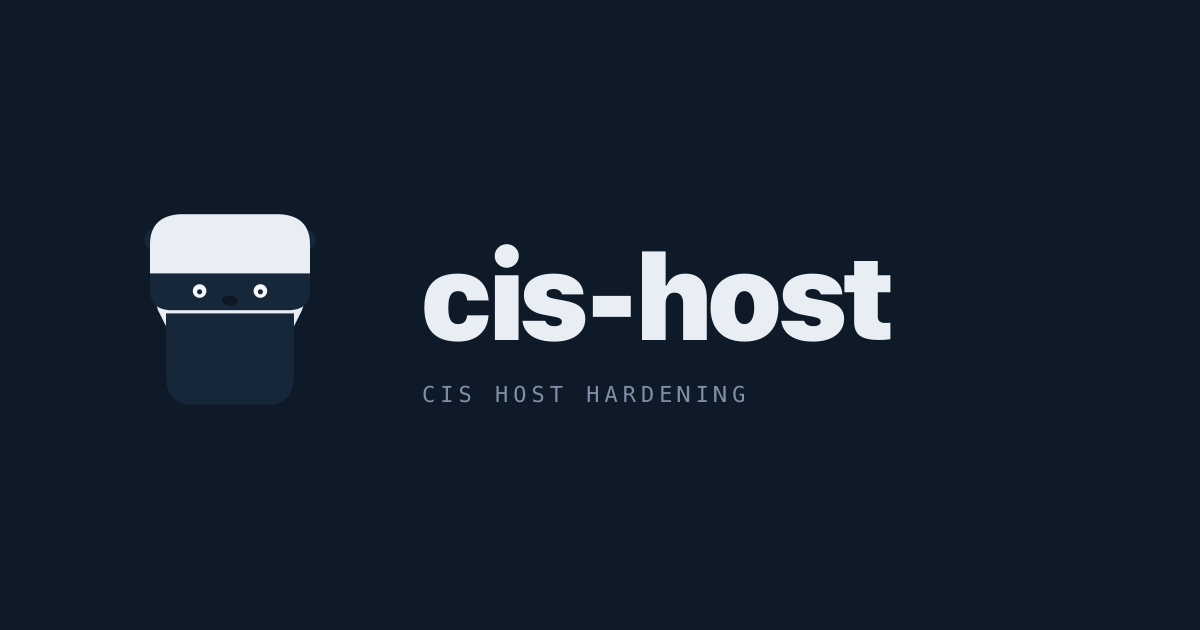
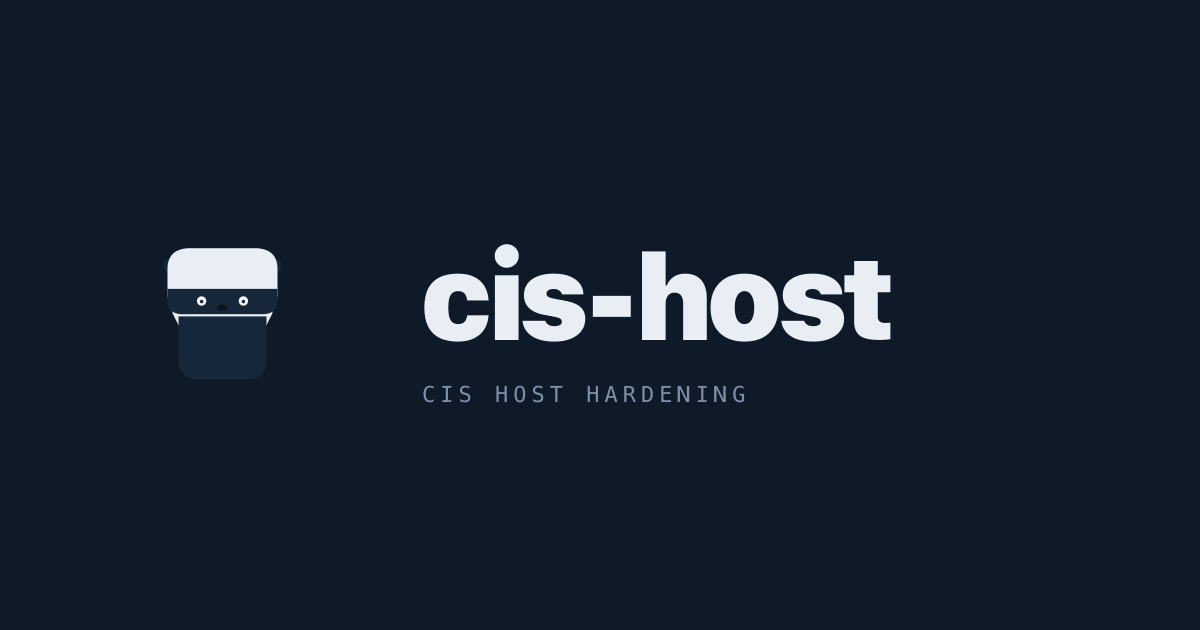
chore: shrink honey badger mark + og-image, smaller README display

Changed region(s): [[0.1233, 0.3317, 0.2775, 0.5127]]

diff --git a/README.md b/README.md
@@ -1,5 +1,5 @@
 <p align="center">
-  <img src="https://cdn.jsdelivr.net/gh/susunola/cis-host@main/docs/logo-full.png" alt="cis-host" width="600">
+  <img src="https://cdn.jsdelivr.net/gh/susunola/cis-host@main/docs/logo-full.png" alt="cis-host" width="260">
 </p>
 
 <p align="center">
